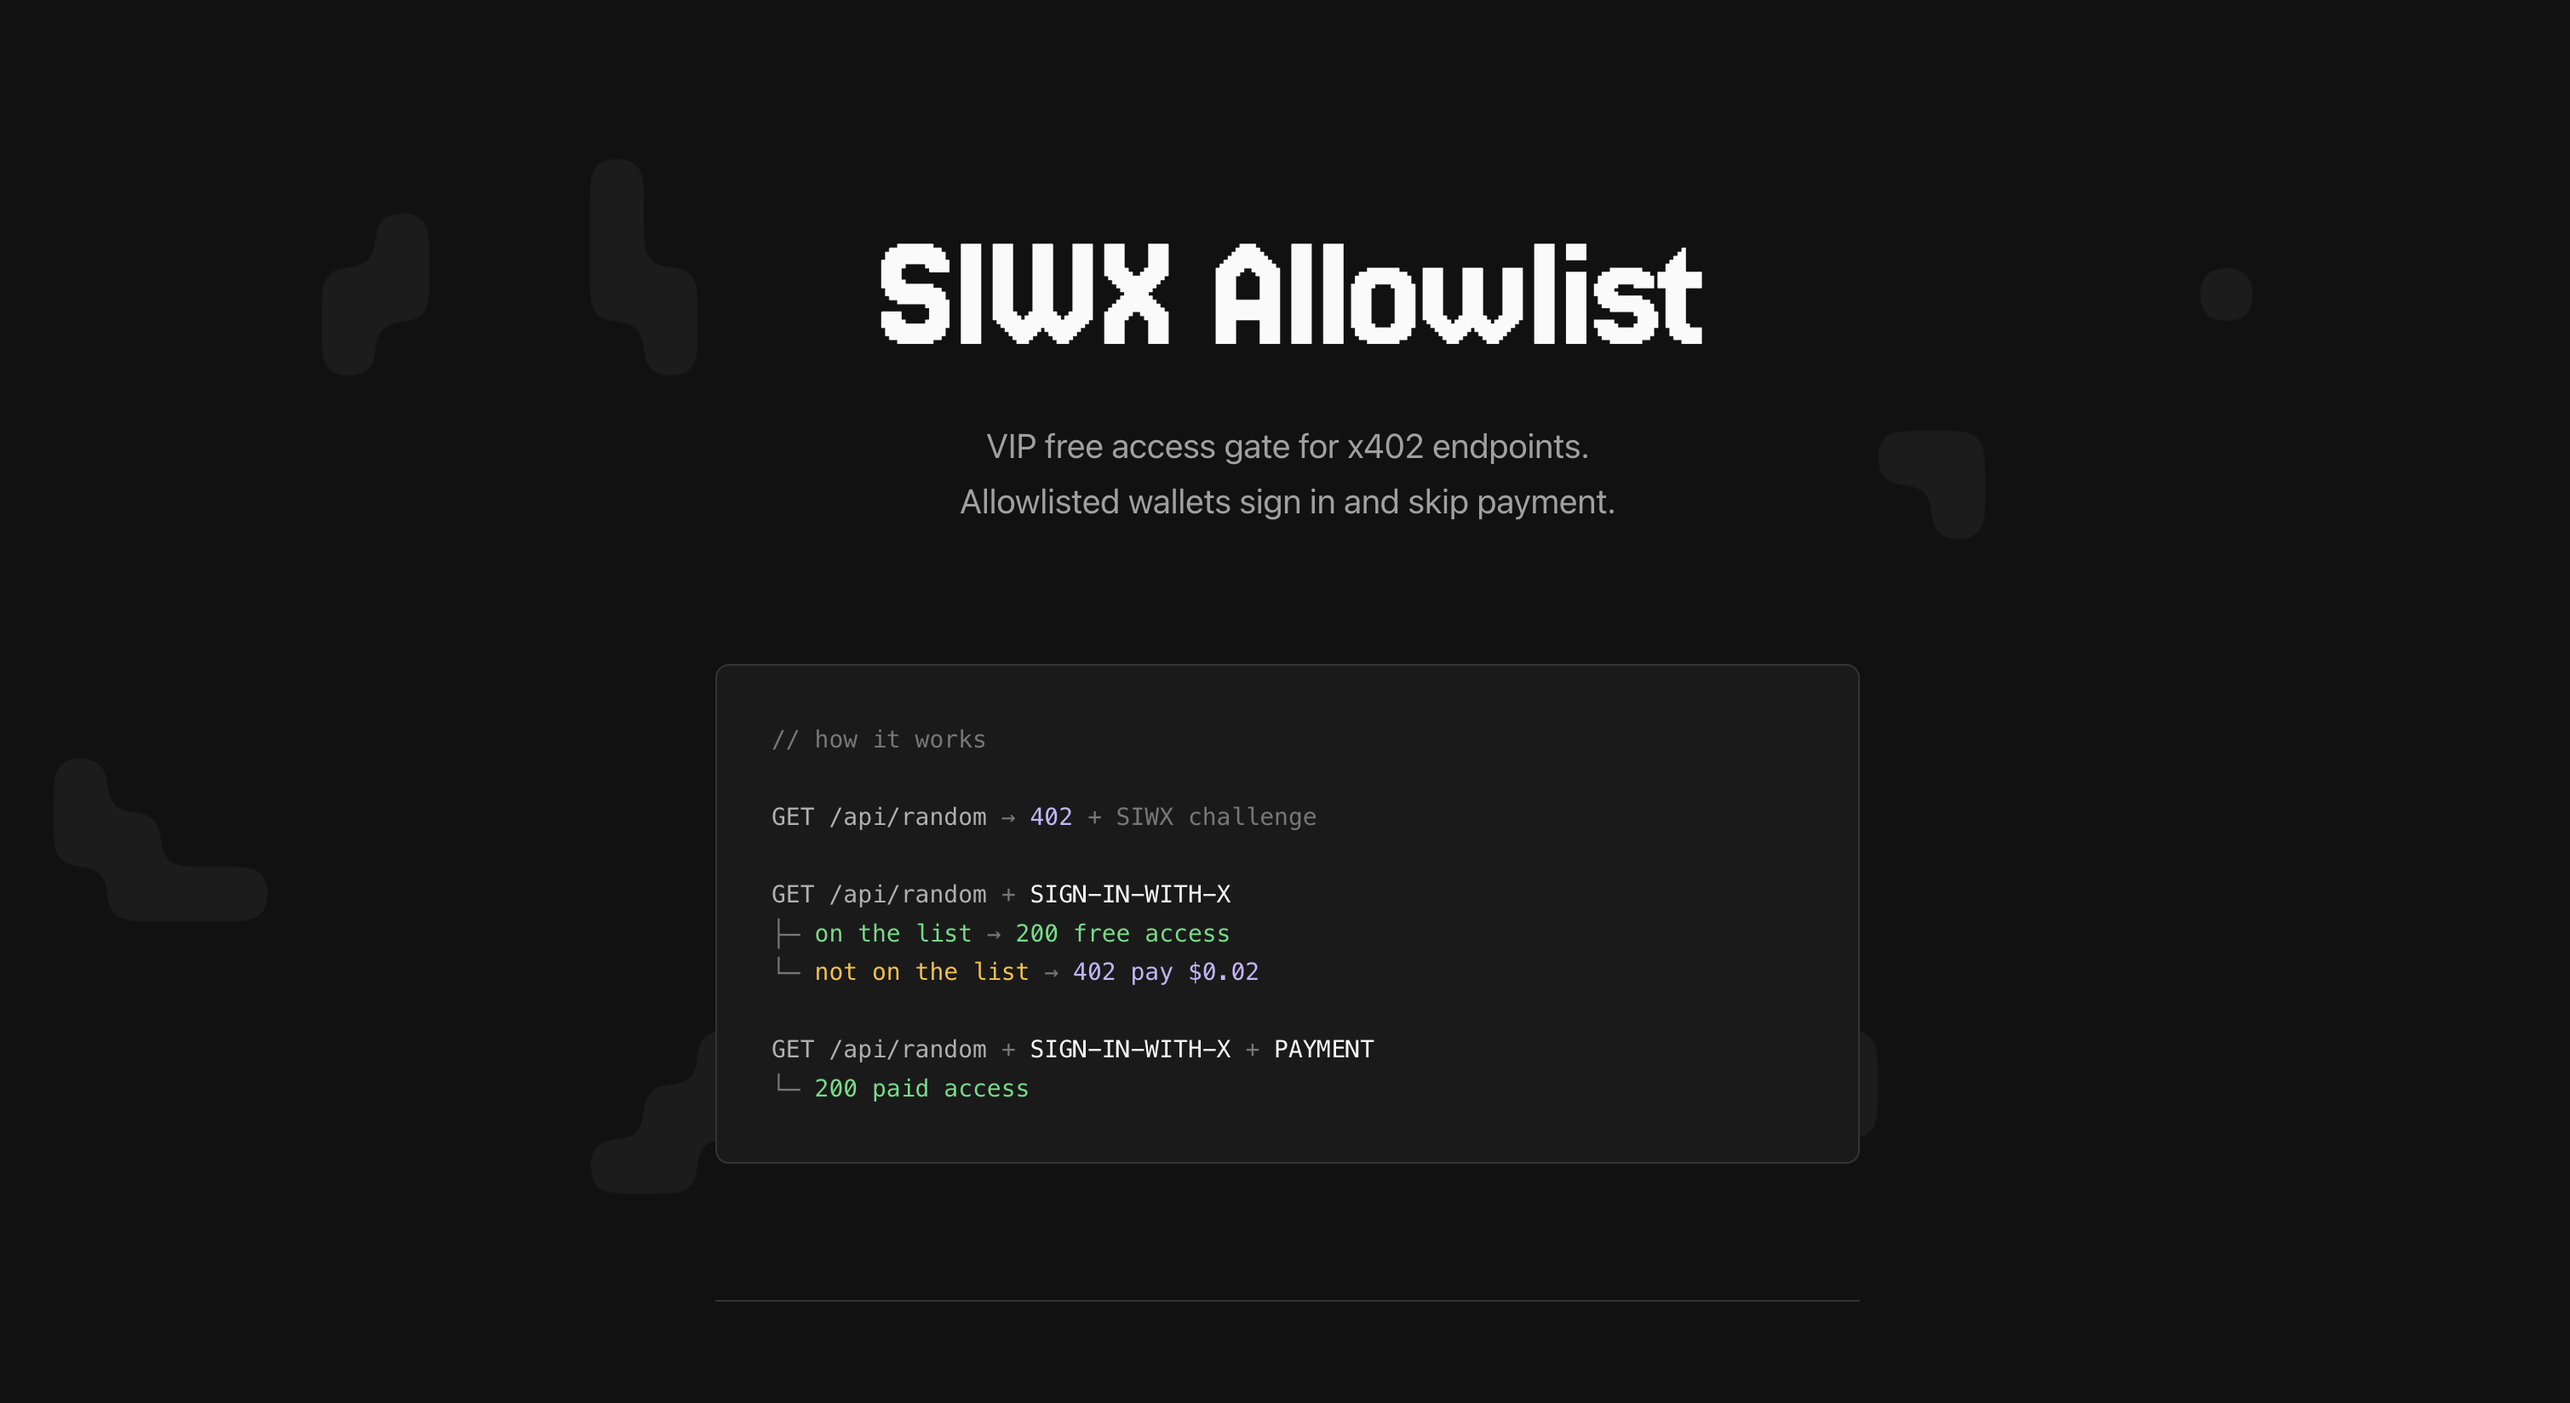
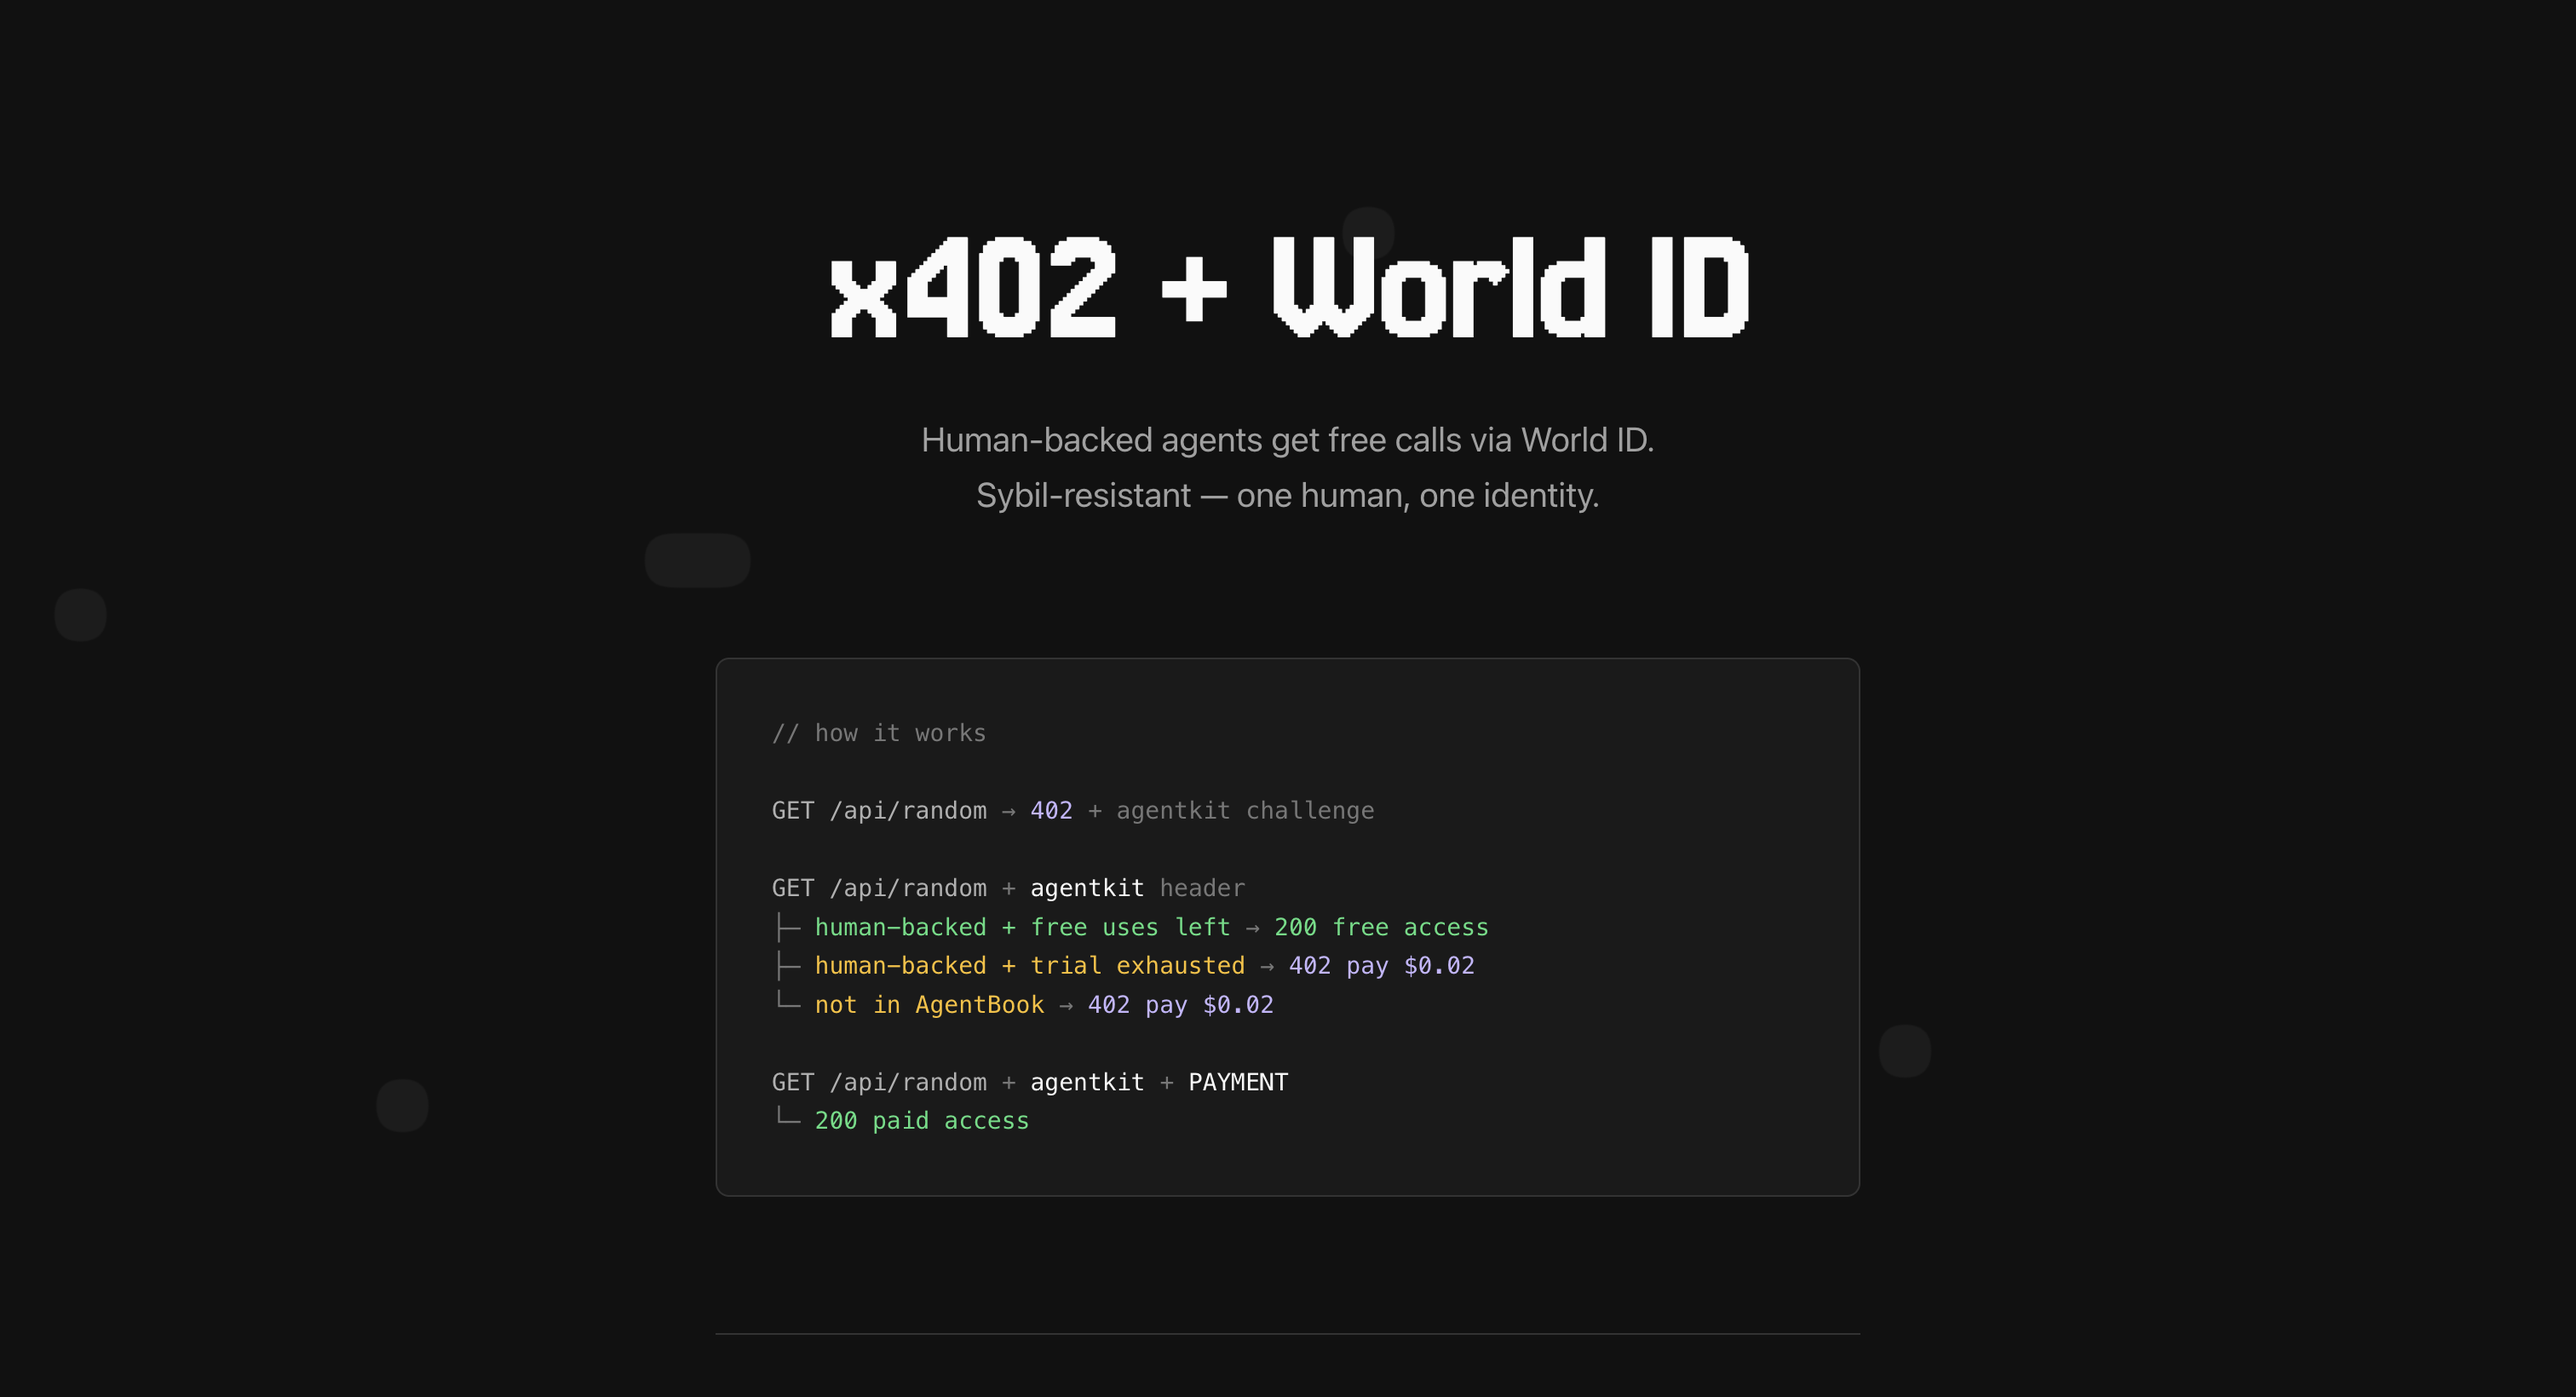
First commit

diff --git a/app/layout.tsx b/app/layout.tsx
@@ -9,7 +9,7 @@ const geistMono = Geist_Mono({
 });
 
 export const metadata: Metadata = {
-  title: "First Call Free | x402 + AgentKit (World ID) Example",
+  title: "x402 + World ID | AgentKit Example",
   description:
     "A payment-gated API using x402 and AgentKit where human-backed agents get their first calls free. Sybil-resistant via World ID proof-of-personhood.",
   metadataBase: new URL("https://x402-world-agentkit.vercel.app"),
@@ -37,24 +37,24 @@ export const metadata: Metadata = {
   },
   manifest: "/site.webmanifest",
   openGraph: {
-    title: "First Call Free | x402 + AgentKit (World ID) Example",
+    title: "x402 + World ID | x402 + AgentKit (World ID) Example",
     description:
       "A payment-gated API using x402 and AgentKit where human-backed agents get their first calls free. Sybil-resistant via World ID.",
     url: "https://x402-world-agentkit.vercel.app",
-    siteName: "First Call Free",
+    siteName: "x402 + World ID",
     images: [
       {
         url: "https://x402-world-agentkit.vercel.app/og.png",
         width: 1200,
         height: 630,
-        alt: "First Call Free - x402 + AgentKit (World ID) Example",
+        alt: "x402 + World ID - x402 + AgentKit (World ID) Example",
       },
     ],
     type: "website",
   },
   twitter: {
     card: "summary_large_image",
-    title: "First Call Free | x402 + AgentKit (World ID) Example",
+    title: "x402 + World ID | x402 + AgentKit (World ID) Example",
     description:
       "A payment-gated API using x402 and AgentKit where human-backed agents get their first calls free. Sybil-resistant via World ID.",
     images: ["https://x402-world-agentkit.vercel.app/og.png"],
